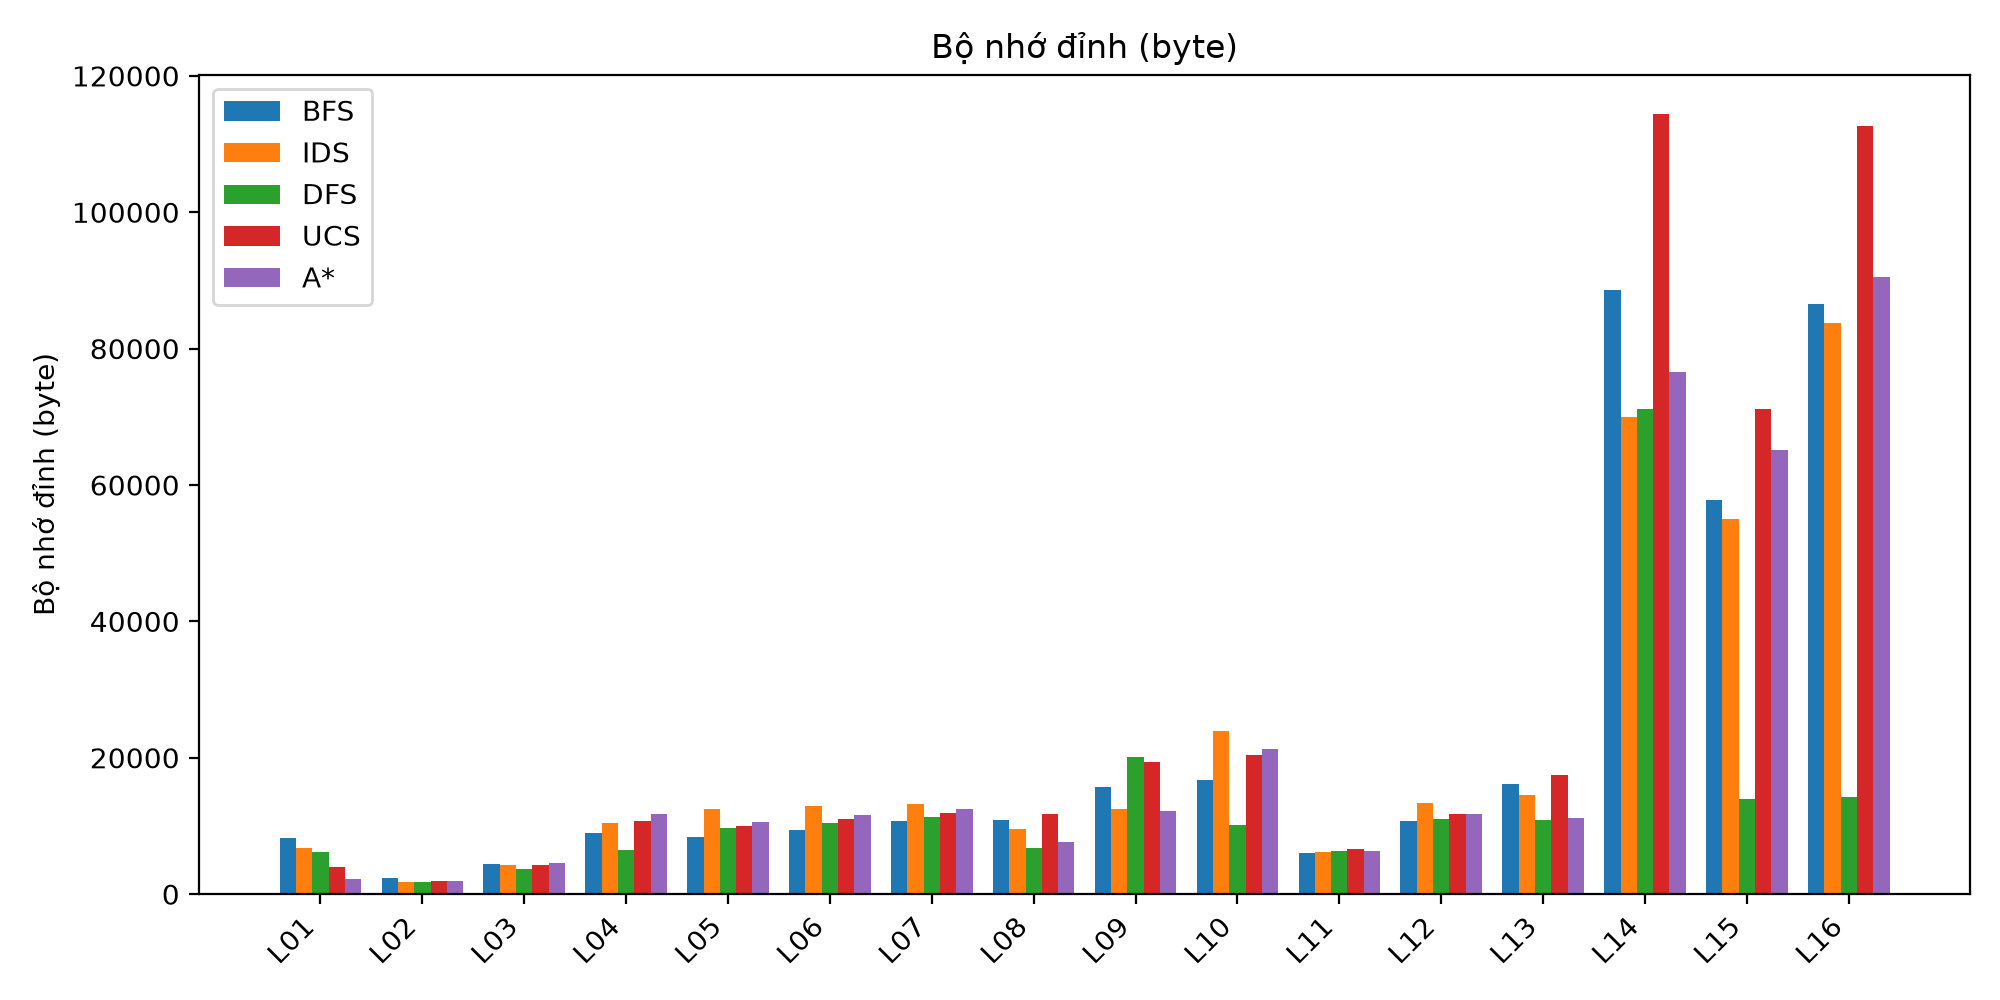
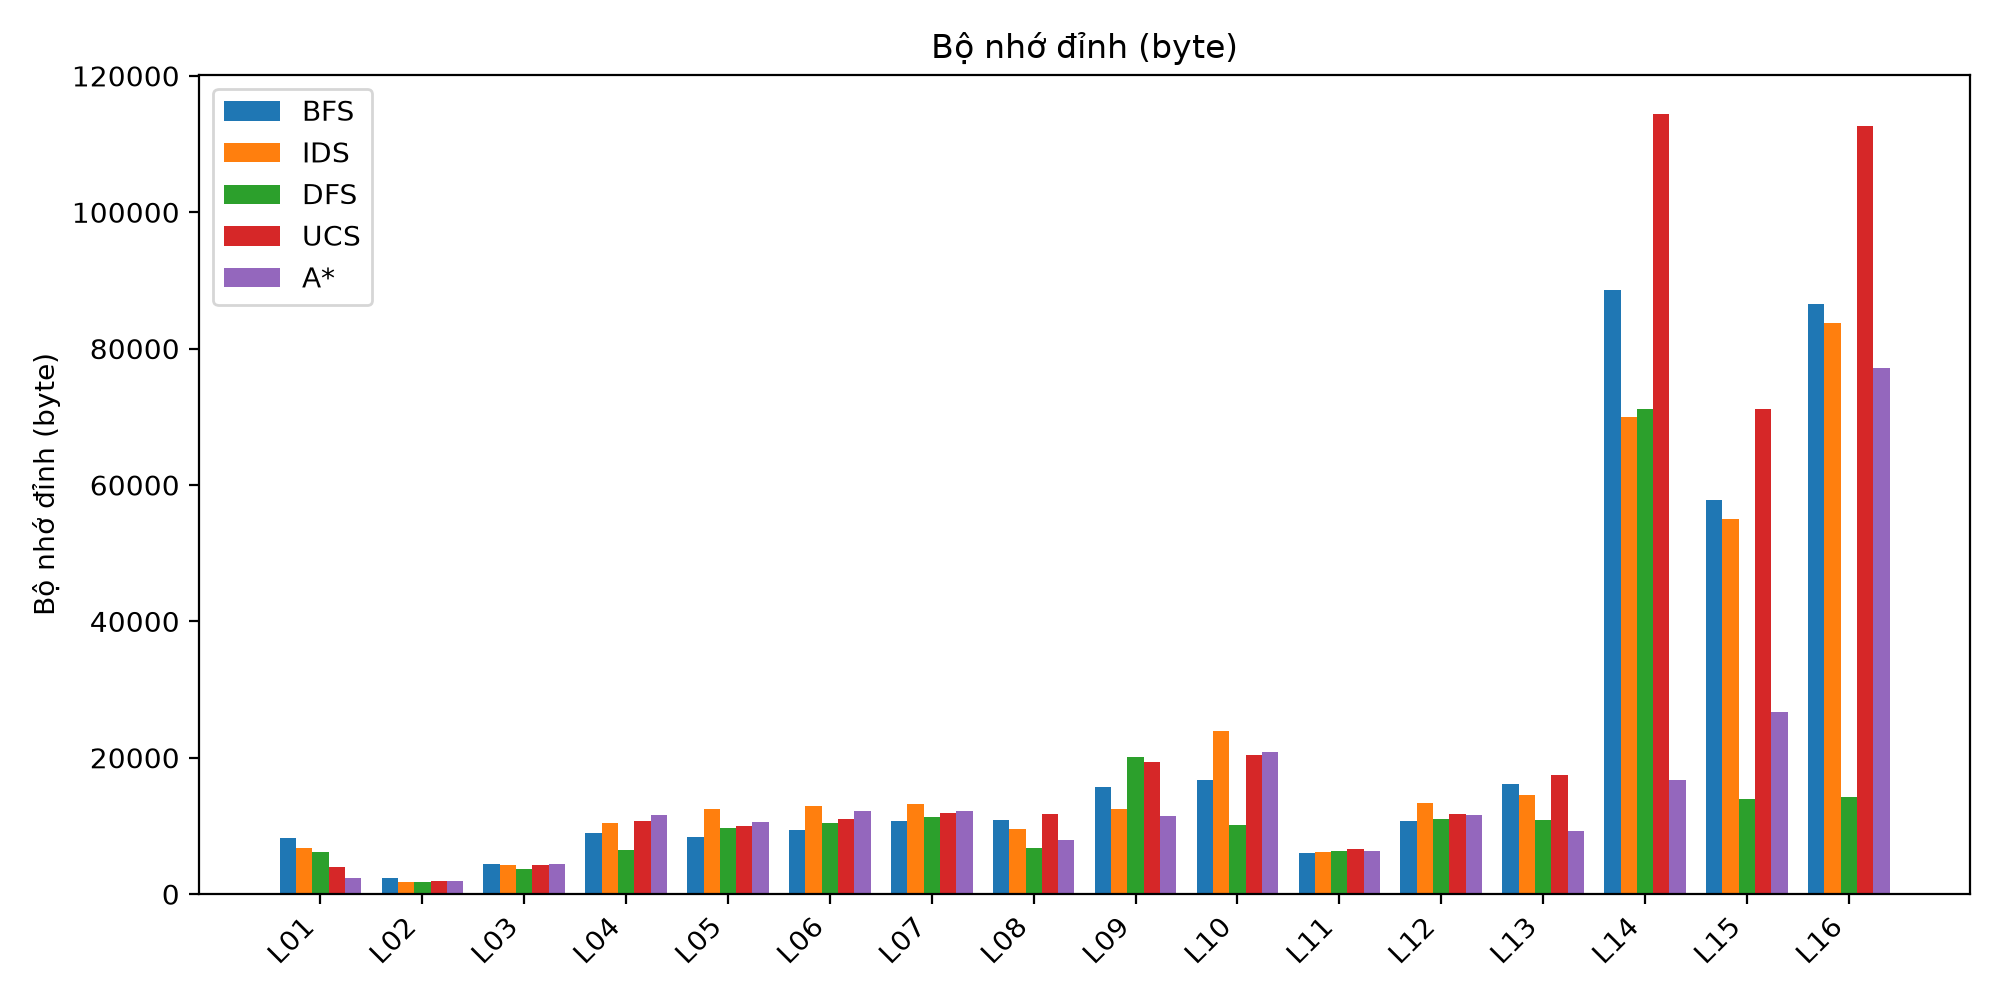
Refactor benchmark scripts: update file paths, enhance encoding handling, and improve A* heuristic integration; add README for setup instructions and usage.

Changed region(s): [[0.837, 0.372, 0.899, 0.775], [0.93, 0.279, 0.961, 0.372], [0.775, 0.806, 0.806, 0.837]]

diff --git a/Source/benchmark/plot.py b/Source/benchmark/plot.py
@@ -1,5 +1,6 @@
 """Vẽ biểu đồ từ results.csv. Từ thư mục Source:  python -m benchmark.plot"""
 import csv, os, sys
+from pathlib import Path
 import matplotlib
 matplotlib.use("Agg")
 import matplotlib.pyplot as plt
@@ -8,10 +9,17 @@ import matplotlib.pyplot as plt
 if sys.stdout.encoding != "utf-8":
     sys.stdout.reconfigure(encoding="utf-8")
 
+SOURCE_DIR = Path(__file__).resolve().parents[1]
+if str(SOURCE_DIR) not in sys.path:
+    sys.path.insert(0, str(SOURCE_DIR))
+
+DEFAULT_SRC = Path(__file__).resolve().parent / "results.csv"
+DEFAULT_OUTDIR = SOURCE_DIR / "docs" / "figures"
+
 METRICS = {"time_s": "Thời gian (giây)", "peak_memory_bytes": "Bộ nhớ đỉnh (byte)",
            "expanded": "Số node mở rộng", "length": "Độ dài lời giải (số nước)", "cost": "Tổng chi phí"}
 
-def main(src="benchmark/results.csv", outdir="docs/figures"):
+def main(src=DEFAULT_SRC, outdir=DEFAULT_OUTDIR):
     os.makedirs(outdir, exist_ok=True)
     rows = list(csv.DictReader(open(src, encoding="utf-8-sig")))
     levels = list(dict.fromkeys(r["level"] for r in rows))

diff --git a/Source/benchmark/run_all.py b/Source/benchmark/run_all.py
@@ -1,5 +1,12 @@
 """Chạy benchmark. Từ thư mục Source:  python -m benchmark.run_all"""
 import csv, importlib, os, statistics, sys
+from pathlib import Path
+
+# Đảm bảo import được module solvers dù chạy từ bất kỳ thư mục nào
+SOURCE_DIR = Path(__file__).resolve().parents[1]
+if str(SOURCE_DIR) not in sys.path:
+    sys.path.insert(0, str(SOURCE_DIR))
+
 from solvers.metrics import run_solver
 from solvers.costs import path_cost
 from solvers.loader import load_game
@@ -27,7 +34,9 @@ def get_solvers():
             print(f"[bỏ qua] không tìm thấy {mod}.{fn}")
     return found
 
-def main(out="benchmark/results.csv"):
+DEFAULT_OUT = Path(__file__).resolve().parent / "results.csv"
+
+def main(out=DEFAULT_OUT):
     solvers = get_solvers()
     os.makedirs(os.path.dirname(out), exist_ok=True)
     with open(out, "w", newline="", encoding="utf-8-sig") as f:

diff --git a/Source/solvers/astar.py b/Source/solvers/astar.py
@@ -2,10 +2,10 @@ import heapq
 import itertools
 
 from solvers.costs import weighted
-from solvers.heuristics import h_manhattan_half
+from solvers.heuristics import h_manhattan_half, h_combined
 from solvers.ucs import _build_path
 
-def astar(game, h=h_manhattan_half, start=None):
+def astar(game, h=h_combined, start=None):
     """Trả về {"moves": [...] hoặc None, "expanded": số}."""
     game = weighted(game)
     start = game.initial_state() if start is None else start

diff --git a/Source/README.md b/Source/README.md
@@ -1,0 +1,183 @@
+# Bloxorz Solver — Hướng dẫn chạy mã nguồn
+
+## Yêu cầu hệ thống
+
+| Thành phần | Phiên bản tối thiểu |
+|---|---|
+| Python | 3.12+ |
+| Hệ điều hành | Windows / macOS / Linux |
+| Trình duyệt | Chrome, Edge, Firefox (hỗ trợ WebGL) |
+
+## 1. Cài đặt
+
+### 1.1. Tạo môi trường ảo (khuyến nghị)
+
+```bash
+cd Source
+python -m venv .venv
+```
+
+Kích hoạt môi trường ảo:
+
+- **Windows (PowerShell)**:
+  ```powershell
+  .venv\Scripts\Activate.ps1
+  ```
+- **Windows (CMD)**:
+  ```cmd
+  .venv\Scripts\activate.bat
+  ```
+- **macOS / Linux**:
+  ```bash
+  source .venv/bin/activate
+  ```
+
+### 1.2. Cài đặt thư viện
+
+```bash
+pip install -r requirements.txt
+```
+
+Các thư viện cần thiết:
+
+| Thư viện | Mục đích |
+|---|---|
+| `fastapi` | API backend |
+| `uvicorn` | Máy chủ ASGI |
+| `httpx` | HTTP client (dùng trong test) |
+| `pytest` | Chạy unit test |
+| `matplotlib` | Vẽ biểu đồ benchmark |
+
+## 2. Chạy ứng dụng web (GUI 3D)
+
+Từ thư mục `Source`, chạy:
+
+```bash
+python main.py
+```
+
+Trình duyệt sẽ tự mở tại `http://127.0.0.1:8000/`. Giao diện 3D cho phép:
+- Chọn màn chơi (L01 – L16)
+- Chơi thủ công bằng phím mũi tên
+- Chọn thuật toán giải tự động và xem hoạt ảnh lời giải
+
+### Tuỳ chọn dòng lệnh
+
+| Tham số | Mô tả | Mặc định |
+|---|---|---|
+| `--host` | Địa chỉ IP | `127.0.0.1` |
+| `--port` | Cổng | `8000` |
+| `--no-browser` | Không tự mở trình duyệt | Tắt |
+
+Ví dụ chạy trên cổng khác:
+
+```bash
+python main.py --port 9000
+```
+
+## 3. Chạy unit test
+
+```bash
+python -m pytest -v
+```
+
+Chạy riêng các test liên quan đến heuristic:
+
+```bash
+python -m pytest -v -k "heuristic or combined or consistent"
+```
+
+## 4. Chạy benchmark
+
+So sánh hiệu năng tất cả thuật toán (BFS, DFS, IDS, UCS, A*) trên 16 màn:
+
+```bash
+python -m benchmark.run_all
+```
+
+Kết quả được ghi vào `benchmark/results.csv`. Để vẽ biểu đồ từ kết quả:
+
+```bash
+python -m benchmark.plot
+```
+
+## 5. Cấu trúc thư mục
+
+```
+Source/
+├── main.py              # Điểm vào chính — khởi động server
+├── requirements.txt     # Danh sách thư viện
+├── pytest.ini           # Cấu hình pytest
+│
+├── game/                # Luật chơi Bloxorz
+│   ├── game.py          #   Lớp Game: trạng thái, hành động, kết quả
+│   ├── state.py         #   State, hằng số orientation, bảng chuyển đổi
+│   └── level_loader.py  #   Đọc và kiểm tra file màn chơi JSON
+│
+├── solvers/             # Các thuật toán tìm kiếm
+│   ├── bfs.py           #   Breadth-First Search
+│   ├── dfs.py           #   Depth-First Search
+│   ├── ids.py           #   Iterative Deepening Search
+│   ├── ucs.py           #   Uniform-Cost Search
+│   ├── astar.py         #   A* Search
+│   ├── heuristics.py    #   Hàm heuristic (Manhattan/2, combined)
+│   ├── costs.py         #   Hàm chi phí (có phụ thu fragile)
+│   ├── metrics.py       #   Đo thời gian, bộ nhớ, số node mở rộng
+│   ├── registry.py      #   Bảng tên thuật toán → hàm solver
+│   ├── loader.py        #   Hàm tiện ích nạp màn chơi
+│   └── game_access.py   #   Lớp trung gian truy cập Game
+│
+├── server/              # API backend
+│   ├── app.py           #   FastAPI endpoints
+│   └── runner.py        #   Chạy solver có giới hạn thời gian
+│
+├── web/                 # Giao diện 3D (frontend)
+│   ├── index.html
+│   ├── style.css
+│   ├── main.js
+│   ├── scene.js         #   Render 3D bằng Three.js
+│   └── api.js           #   Gọi API từ frontend
+│
+├── levels/              # Dữ liệu 16 màn chơi (JSON)
+│   ├── L01.json … L16.json
+│
+├── tests/               # Unit test
+│
+├── benchmark/           # Benchmark & biểu đồ
+│   ├── run_all.py
+│   ├── plot.py
+│   └── results.csv
+│
+└── tools/               # Script tiện ích
+```
+
+## 6. Các thuật toán giải
+
+| Thuật toán | Tên trong API | Tối ưu? | Ghi chú |
+|---|---|---|---|
+| BFS | `bfs` | ✅ (chi phí đồng nhất) | Cơ bản |
+| DFS | `dfs` | ❌ | Dùng làm mốc so sánh |
+| IDS | `ids` | ✅ (chi phí đồng nhất) | Tiết kiệm bộ nhớ hơn BFS |
+| UCS | `ucs` | ✅ | Tối ưu với chi phí không đồng nhất |
+| A* | `astar` | ✅ | Heuristic dẫn đường, nhanh nhất |
+
+## 7. API endpoints
+
+Tài liệu API tương tác có tại `http://127.0.0.1:8000/docs` (Swagger UI) khi server đang chạy.
+
+| Phương thức | Đường dẫn | Mô tả |
+|---|---|---|
+| `GET` | `/api/levels` | Danh sách các màn chơi |
+| `POST` | `/api/load` | Nạp một màn chơi |
+| `POST` | `/api/move` | Di chuyển khối (U/D/L/R) |
+| `POST` | `/api/switch_control` | Đổi cube điều khiển (khi khối tách) |
+| `POST` | `/api/solve` | Giải tự động bằng thuật toán chỉ định |
+
+## 8. Xử lý sự cố
+
+| Vấn đề | Giải pháp |
+|---|---|
+| `Cổng 8000 đang bị chiếm` | Chạy `python main.py --port 8001` |
+| `ModuleNotFoundError` | Kiểm tra đã kích hoạt venv và `pip install -r requirements.txt` |
+| Trình duyệt không tự mở | Truy cập thủ công `http://127.0.0.1:8000/` |
+| Lỗi encoding tiếng Việt trên Windows | Chạy `chcp 65001` trong CMD trước khi chạy lệnh |
